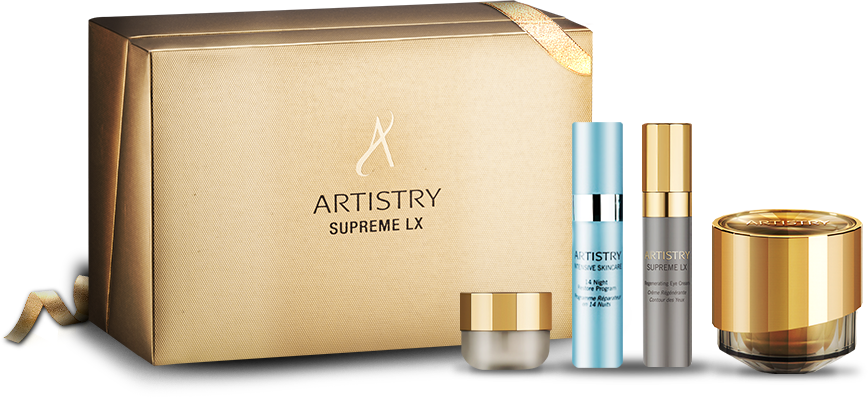
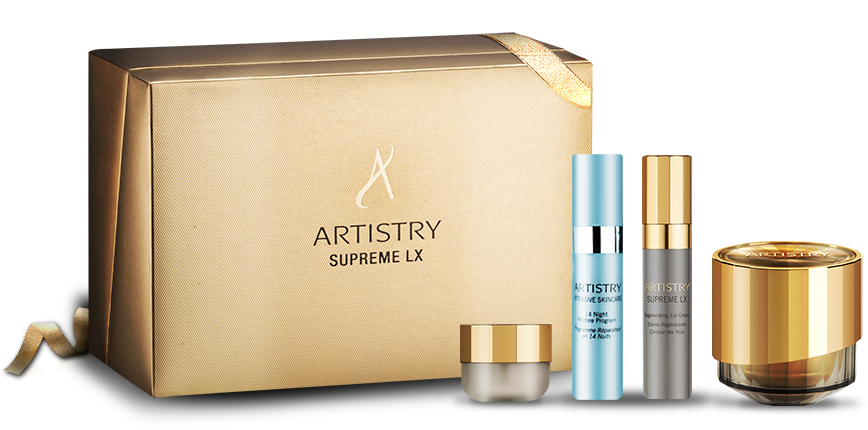
마이그레이션(스킨케어)수정 / 기프트세트, 유스익스텐드, 인텐시브 완료

diff --git a/_ui/responsive/theme-blue/css/akl-product02.css b/_ui/responsive/theme-blue/css/akl-product02.css
@@ -27,7 +27,9 @@ Editor : ji-min Park
 .visual-area.type02.duma-sonic{background: #f8f8f8 url(../images/akl_product/beauty/bg_duma_sonic_4779.png) no-repeat top center;height:1036px;}/*06 스페셜 케어 더마 갈바닉 */
 .visual-area.type02.essentials_by{background: #f8f8f8 url(../images/akl_product/beauty/bg_essentials_by.png) no-repeat top center;height:1100px;}/*09 에센셜 바이 */
 .visual-area.type02.supreme_lx{background: #000000 url(../images/akl_product/beauty/bg_supreme_lx_regenerating.png) no-repeat top center;height:1130px;} /* 수프림 lx */
+.visual-area.type02.supreme_lx{background: #000000 url(../images/akl_product/beauty/bg_supreme_lx_regenerating_01.png) no-repeat top center;height:1000px;} /* 수프림 lx set */
 .visual-area.type02.artistry_men{background: #000000 url(../images/akl_product/beauty/bg_artistry_men.png) no-repeat top center;height:1024px;} /* 아트스트리 맨 */
+.visual-area.type02.artistry_men_set{background: #000000 url(../images/akl_product/beauty/bg_artistry_men_set.png) no-repeat top center;height:904px;} /* 아트스트리 맨  세트*/
 .visual-area.type02.artistry_men_perfume{background: #000000 url(../images/akl_product/beauty/bg_men_perfume.png) no-repeat top center;height:945px;} /* 아트스트리 맨 퍼퓸 */
 .visual-area.indicator{background: url(../images/akl_product/beauty/bg_oil_indicator_1171.png) no-repeat top center;height:866px;} /* 유분 측전 인디케이터 */
 .visual-area.type02.foundation_hydra_touch{background: #000000 url(../images/akl_product/beauty/bg_foundation_hydra_touch.png) no-repeat top center;height:1010px;} /* 베이스메이크업(파운데이션) */
@@ -61,7 +63,6 @@ p, div, li span{word-break: keep-all;word-wrap: break-word;}
 .pt30{padding-top:30px;}
 .space-top{margin-top:22px;}
 
-
 /* 공통 컬러 */
 .light-gold{color:#d7b472 !important;}
 .linght-beige{color:#ad9172 !important;}
@@ -72,9 +73,6 @@ p, div, li span{word-break: keep-all;word-wrap: break-word;}
 .grapefruit{color:#e28379 !important;}
 .normal_gray{color:#56565a !important;}
 .water-blue{color:#008fc5 !important;}
-
-
-
 
 /* 스킨케어 예외 */
 .skin-care .visual-area.type02.youth-xtend-set .v-pro {margin-top:-40px !important;}
@@ -206,7 +204,7 @@ p, div, li span{word-break: keep-all;word-wrap: break-word;}
 /* 제품 구성 리스트 공통 */
 .pcomp-list div.comp-info{position:relative;}
 .pcomp-list div.comp-info .free-gift{display:table;position: absolute;top: 15px;right: 10px;border-radius: 50%;height: 66px;width: 66px;background: #bbbbbb;}
-.pcomp-list div.comp-info .free-gift em{display:table-cell;vertical-align:middle;font-size: 14px;line-height: 1;text-align: center;color: #ffffff;font-weight: 400;letter-spacing: -1px;}
+.pcomp-list div.comp-info .free-gift em{display:table-cell;vertical-align:middle;font-size: 14px;line-height: 1.5;text-align: center;color: #ffffff;font-weight: 400;letter-spacing: -1px;}
 .pcomp-list div.comp-info .free-gift br{line-height:1;}
 
 /* 롤링 박스 공통 옮겨갈거 */
@@ -240,6 +238,21 @@ p, div, li span{word-break: keep-all;word-wrap: break-word;}
 .youth_xtend_relative .youth_xtend_right{top:40px;right:0;display:table;width:130px;height:117px;text-align:center;}
 .youth_xtend_relative .youth_xtend_right span{display:table-cell;vertical-align:middle;font-size:24px;line-height:34px;color:#fff;font-weight:500;}
 
+
+/*선물세트 3종 나열 
+.pcomp-list.deaf03.gift div.comp-info {display: inline-block;width: 21.3%;margin: 0 5%;vertical-align:top;text-align:center;position:relative;}
+.pcomp-list.gift .comp-info dl {vertical-align:top;width:100%;text-align:center;margin: 29px auto 0;}
+.pcomp-list.gift .comp-info dl dt {height:40px;font-family:'Noto Sans KR', sans-serif;padding: 10px 0;}
+.pcomp-list.gift .comp-info dl dt span.blue {display:block;}
+.pcomp-list.gift .comp-info dl dd {text-align:center;padding:10px 0;}
+.pcomp-list.gift .comp-info dl dd p {font-size:14px;font-weight:300;color:#808285;margin: 11px 0 18px;height:50px;padding: 0 0;}
+.pcomp-list.gift .comp-info dl dd span.cc-btn {display:block;margin:0 auto;}*/	
+
+
+.skin-care .pro-composition .com-tit{font-size:44px;}
+.skin-care .pro-composition .com-tit span{display:inline-block;}
+
+
 /* 리스트 공통 */
 .technology-step{padding:0 5% 0 0;margin-top:0;}
 .technology-step .step-tit{display:block;margin:0;font-size:30px;color:#808285;font-weight:300;letter-spacing:-2px;line-height:1;}
@@ -250,8 +263,7 @@ p, div, li span{word-break: keep-all;word-wrap: break-word;}
 .technology-step .program-list .program-step{display:block;width:140px;height:40px;line-height:40px;font-size:18px;color:#fff;text-align:center;background-color:#ad9172;border-radius:20px;}
 .technology-step .program-list .program-tit{display:block;padding-left:15px;margin-top:10px;font-size:16px;color:#56565a;font-weight:400;letter-spacing:-1px;}
 .technology-step .program-list .program-txt{display:block;padding-left:15px;font-size:14px;color:#808285;font-weight:300;letter-spacing:-1px;}
-.technology-step .program-list.ar_4285 .program-txt{padding: 0 30px 0 15px;}
-
+.ar_4285 .technology-step .program-list .program-txt{padding: 0 30px 0 15px;}
 
 .technology-lst .tit{padding-top:0;margin-top:20px;font-size: 20px;color: #ad9172;font-weight: 400;}
 .technology-lst .ad-setp-lst dt{color: #ad9172;}
@@ -487,6 +499,12 @@ p, div, li span{word-break: keep-all;word-wrap: break-word;}
 	.skin-care .ingre-list-wrap.sie-box{padding:15px 10% 0;}	
 	.advantage-area.bt-none{padding:50px 0 0 !important;}
 	.pro-video.video-type{margin: 25px 0 0;padding-top:25px;}
+	
+	
+	
+}
+	
+	
 	
 	/*  유스 익스텐드 울트라 리프팅 크림  */
 	.beauty-list-wrap ul > li > .beauty-thum-wrap .thum{display: block;text-align: center;overflow: hidden;width: 100%;padding: 0;margin-bottom: 12px;}

diff --git a/_ui/responsive/html/product/beauty/skincare/youth-extend/AR_4286_10_Youth_Xtend_Enrich_Eye_Cream.html b/_ui/responsive/html/product/beauty/skincare/youth-extend/AR_4286_10_Youth_Xtend_Enrich_Eye_Cream.html
@@ -91,8 +91,7 @@
 												<div class="advan-left v-top">
 													<div class="sie-box">
 														<div class="com-tit">지중해에서 찾은 젊음의 비밀 <span>라이프시르트 <strong class="linght-beige">(LifeSirt)</strong></span></div>
-														<p class="com-txt">아티스트리가 발견해 낸 라이프시르트는 전설 속에서 젊음을 유지해준다고 알려진 희귀식물로, 지중해의 식물 유래 성분입니다. 아티스트리가 지금껏 발견한 그 어떤 원료 보다도  피부 자생력 강화를 돕고 젊음을 유지시키는 놀랍도록 강력한 리프로그래밍
-효과를 선사합니다.</p>	
+														<p class="com-txt">아티스트리가 발견해 낸 라이프시르트는 전설 속에서 젊음을 유지해준다고 알려진 희귀식물로, 지중해의 식물 유래 성분입니다. 아티스트리가 지금껏 발견한 그 어떤 원료 보다도  피부 자생력 강화를 돕고 젊음을 유지시키는 놀랍도록 강력한 리프로그래밍 효과를 선사합니다.</p>	
 													</div>												
 												</div>											
 												<div class="advan-right v-mid">												
@@ -102,7 +101,7 @@
 												</div>
 											</div>
 											<div class="advantage-area">																					
-												<div class="advan-left v-top">																							
+												<div class="advan-left v-top ar_4285">																							
 													<div class="technology-step sie-box">
 														<p class="step-tit"><em>3-STEP care</em>Reprogram technology</p>
 														<ul class="program-list">
@@ -134,7 +133,7 @@
 													</div>																								
 												</div>
 												
-												<div class="advan-right v-top">											
+												<div class="advan-right v-top ar_4285">											
 													<div class="sie-box">
 														<div class="com-tit">피부의 미래를 바꾸는 <span>리프로그래밍  <strong class="linght-beige">테크놀로지</strong></span></div>
 														<p class="com-txt">자연의 혜택을 담은 내추럴 식물 성분들이 풍부하게 함유되어 더욱 촉촉하고 실키한 사용감과 탁월한 스페셜 케어 효과를 선사합니다.</p>													

diff --git a/_ui/responsive/html/product/beauty/skincare/giftset/AR_1624_10_Youth_Xtend_Gift_Set.html b/_ui/responsive/html/product/beauty/skincare/giftset/AR_1624_10_Youth_Xtend_Gift_Set.html
@@ -73,9 +73,9 @@
 										
 										<!--  content 영역 -->
 										<div class="detail-content-area">
+											
 											<div class="pro-composition">
-												<div class="com-tit">제품구성</div>											
-
+												<div class="com-tit">제품 <span class="jahong">구성</span></div>
 												<div class="pcomp-area">
 													<div class="pcomp-list deaf03">
 														<div class="comp-info">
@@ -123,20 +123,20 @@
 											</div>
 											
 											
-											<!--  psd에 하단 내용이 없음 디자이너 확인요청 
 											<div class="ingestion-usage">
 												<dl>
 													<dt>추천 대상자</dt>
 													<dd>
 														<ol class="inge-numlst01">
-															<li>1) 수분부족으로 수분탄력 감소가 시작되는 20 ~ 30대 초반</li>
-															<li>2) 지속된 건조로 인한 피부 손상 걱정으로 신경 쓰이는 여성</li>
-															<li>3) 아티스트리의 새로운 성분과 테크놀로지로 개발된 새로운 스킨케어 제품을 찾는 여성</li>
+															<li>1) 안티에이징에 대한 고민을 가지고 있는 여성(20대~40대 초반)</li>
+															<li>2) 요즘 부쩍 주름이 신경 쓰이기 시작하거나, 신경 쓰이는 여성</li>
+															<li>3) 젊음 유지에 관심이 많은 여성</li>
+															<li>4) 아티스트리의 새로운 성분과 테크놀로지로 개발된 새로운 스킨케어 제품을 찾는 여성</li>
 														</ol>
 													</dd>
-												</dl>												
+												</dl>																								
 											</div>
-											-->
+											
 										</div>
 										<!--  //content 영역 -->
 									</div>

diff --git a/_ui/responsive/html/product/beauty/skincare/giftset/AR_1931_10_Ideal_Radience_Dual_Brightening_Care_Set.html b/_ui/responsive/html/product/beauty/skincare/giftset/AR_1931_10_Ideal_Radience_Dual_Brightening_Care_Set.html
@@ -75,7 +75,7 @@
 										<!--  content 영역 -->
 										<div class="detail-content-area">
 											<div class="pro-composition">
-												<div class="com-tit">제품구성</div>											
+												<div class="com-tit">제품 구성</div>											
 
 												<div class="pcomp-area">
 													<div class="pcomp-list deaf04">
@@ -115,7 +115,10 @@
 															<dl>
 																<dt>
 																	<p class="po-tit">아디디얼 래디언스 크림미니<br>7ml(증정용)</p>
-																</dt>															
+																</dt>
+																<dd>
+																	<span class="cc-btn"><a href="#" class="bt-akl-blue">제품 자세히 보기</a></span>
+																</dd>															
 															</dl>
 															<span class="free-gift"><em>증정용</em></span>
 														</div>
@@ -126,7 +129,10 @@
 															<dl>
 																<dt>
 																	<p class="po-tit">아이디얼 래디언스 크렌징 폼<br>미니 30ml(증정용)</p>		
-																</dt>													
+																</dt>
+																<dd>
+																	<span class="cc-btn"><a href="#" class="bt-akl-blue">제품 자세히 보기</a></span>
+																</dd>												
 															</dl>
 															<span class="free-gift"><em>증정용</em></span>
 														</div>

diff --git a/_ui/responsive/html/product/beauty/skincare/giftset/AR_4953_10_Men_Gift_Set.html b/_ui/responsive/html/product/beauty/skincare/giftset/AR_4953_10_Men_Gift_Set.html
@@ -19,7 +19,7 @@
 	<script type="text/javascript" src="/_ui/responsive/theme-blue/js/owl.carousel.js"></script>
 	<script type="text/javascript" src="/_ui/responsive/theme-blue/js/isotope.pkgd.js"></script><!-- gnb 플러그인 : 2018.03.23 추가  -->
 	<script type="text/javascript" src="/_ui/responsive/theme-blue/js/select2.js"></script>
-	<!-- <script type="text/javascript" src="/_ui/responsive/theme-blue/js/new.js"></script> -->
+	<script type="text/javascript" src="/_ui/responsive/theme-blue/js/new.js"></script>
 	<script type="text/javascript" src="/_ui/responsive/theme-blue/js/jquery.raty.min.js"></script>
 	<script type="text/javascript" src="/_ui/responsive/theme-blue/js/akl_common.js"></script>
 
@@ -59,7 +59,7 @@
 									<!-- 제품 상세영역 시작 -->
 									<div class="product-body-view skin-care">
 										<!-- 비주얼 영역 -->
-										<div class="visual-area type02 artistry_men">
+										<div class="visual-area type02 artistry_men_set">
 											<div class="v-logo beauty"><img src="/_ui/responsive/theme-blue/images/akl_product/common/logo_artistry_men.png" alt="ARTISTRY MEN 로고"></div>
 											<div class="txt-info-visual">
 												<div class="v-logo-txt white">세상에 얼굴을 남기려는 남자들을 위한 선물세트 </div>

diff --git a/_ui/responsive/html/product/beauty/skincare/giftset/AR_4799_10_Supreme_Lx_Regenerating_Cream_Gift_Set.html b/_ui/responsive/html/product/beauty/skincare/giftset/AR_4799_10_Supreme_Lx_Regenerating_Cream_Gift_Set.html
@@ -74,7 +74,7 @@
 										<!--  content 영역 -->
 										<div class="detail-content-area">
 											<div class="pro-composition">
-												<div class="com-tit">제품<span class="linght-beige">구성</span></div>											
+												<div class="com-tit">제품 <span class="linght-beige">구성</span></div>											
 
 												<div class="pcomp-area">
 													<div class="pcomp-list deaf03">

diff --git a/_ui/responsive/html/product/beauty/skincare/giftset/AR_1447_10_HydraV_Hydrating_Solution_Gift_Set.html b/_ui/responsive/html/product/beauty/skincare/giftset/AR_1447_10_HydraV_Hydrating_Solution_Gift_Set.html
@@ -75,7 +75,7 @@
 										<!--  content 영역 -->
 										<div class="detail-content-area">
 											<div class="pro-composition">
-												<div class="com-tit">제품구성</div>											
+												<div class="com-tit">제품 <span class="blue">구성</span></div>										
 
 												<div class="pcomp-area">
 													<div class="pcomp-list deaf04">
